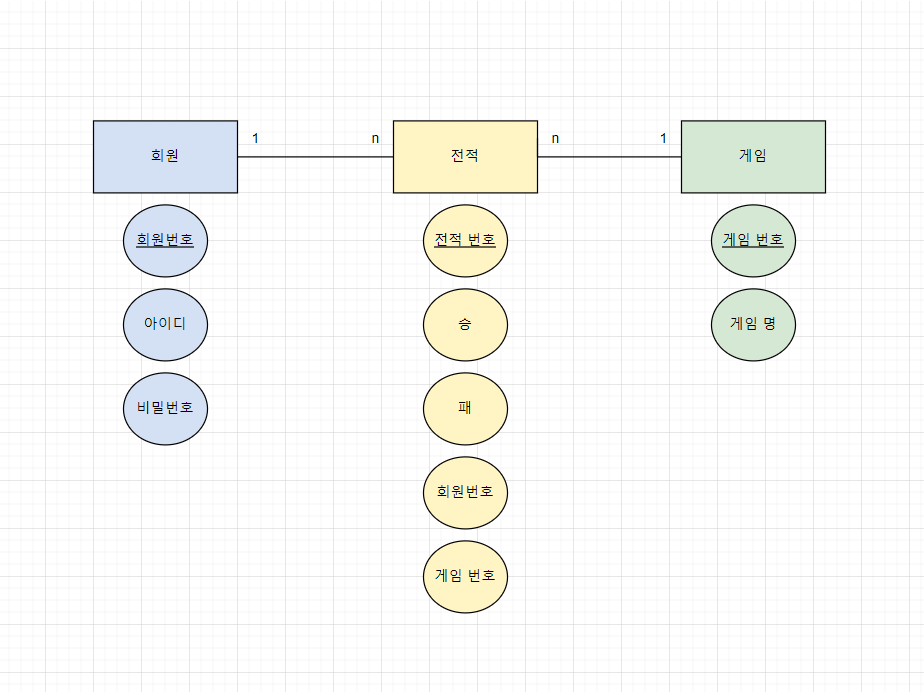
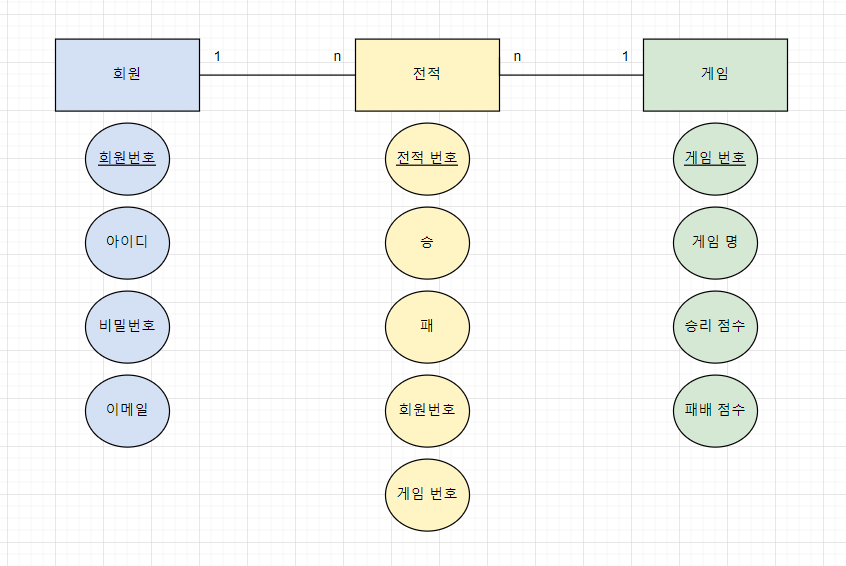
DB 최종 구조.

Changed region(s): [[0.0615, 0.0601, 0.9527, 0.811], [0.4303, 0.6007, 0.5532, 0.9611]]

diff --git a/team/src/minigame/db/model/vo/GameVO.java b/team/src/minigame/db/model/vo/GameVO.java
@@ -10,6 +10,8 @@ public class GameVO {
 
 	private int gm_key; // 게임 번호
 	private String gm_title; // 게임 명
+	private int gm_vPoint; // 이길 때 얻는 점수 
+	private int gm_lPoint; // 졌을 때 잃는 점수
 	
 	public GameVO(String gm_title) {
 		this.gm_title = gm_title;

diff --git a/team/src/minigame/db/model/vo/UserVO.java b/team/src/minigame/db/model/vo/UserVO.java
@@ -11,6 +11,7 @@ public class UserVO {
 	private int us_key; // 멤버 번호
 	private String us_id;
 	private String us_pw;
+	private String us_email;
 	
 	public UserVO(String us_id, String us_pw) {
 		
